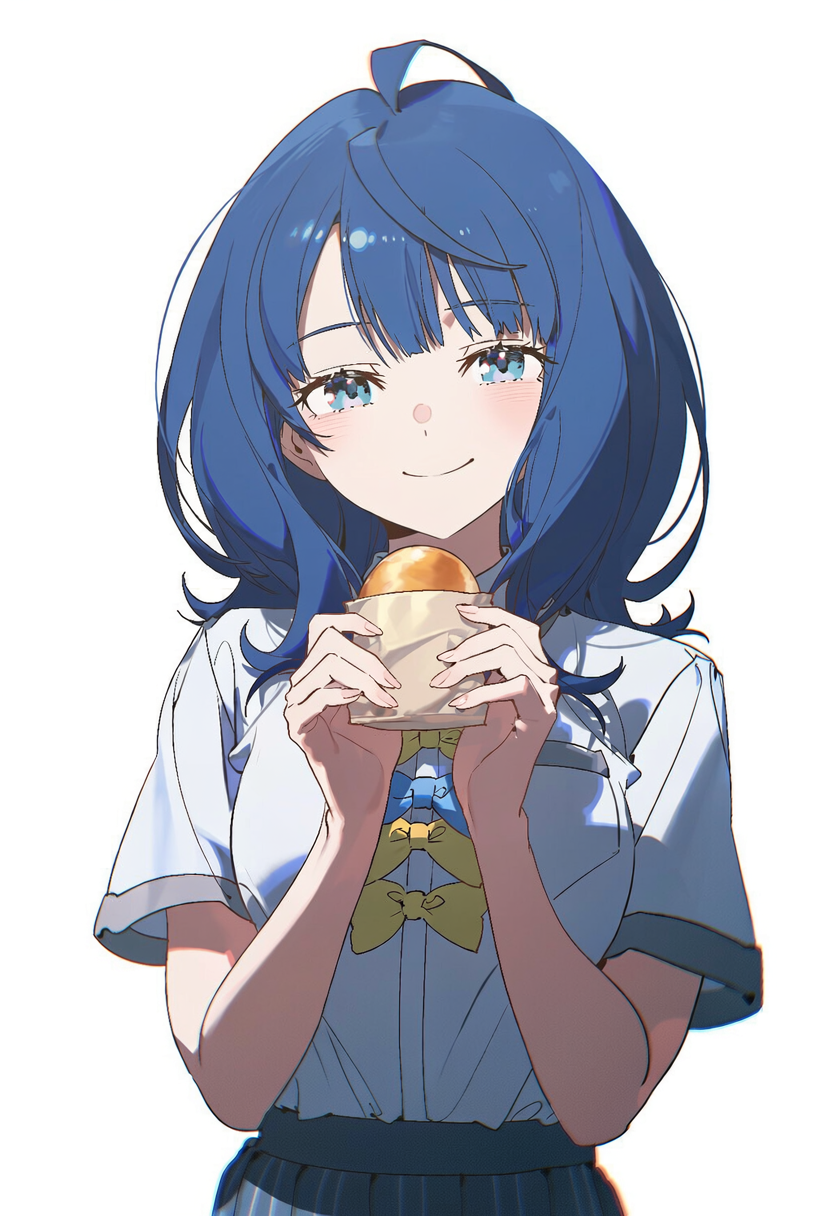
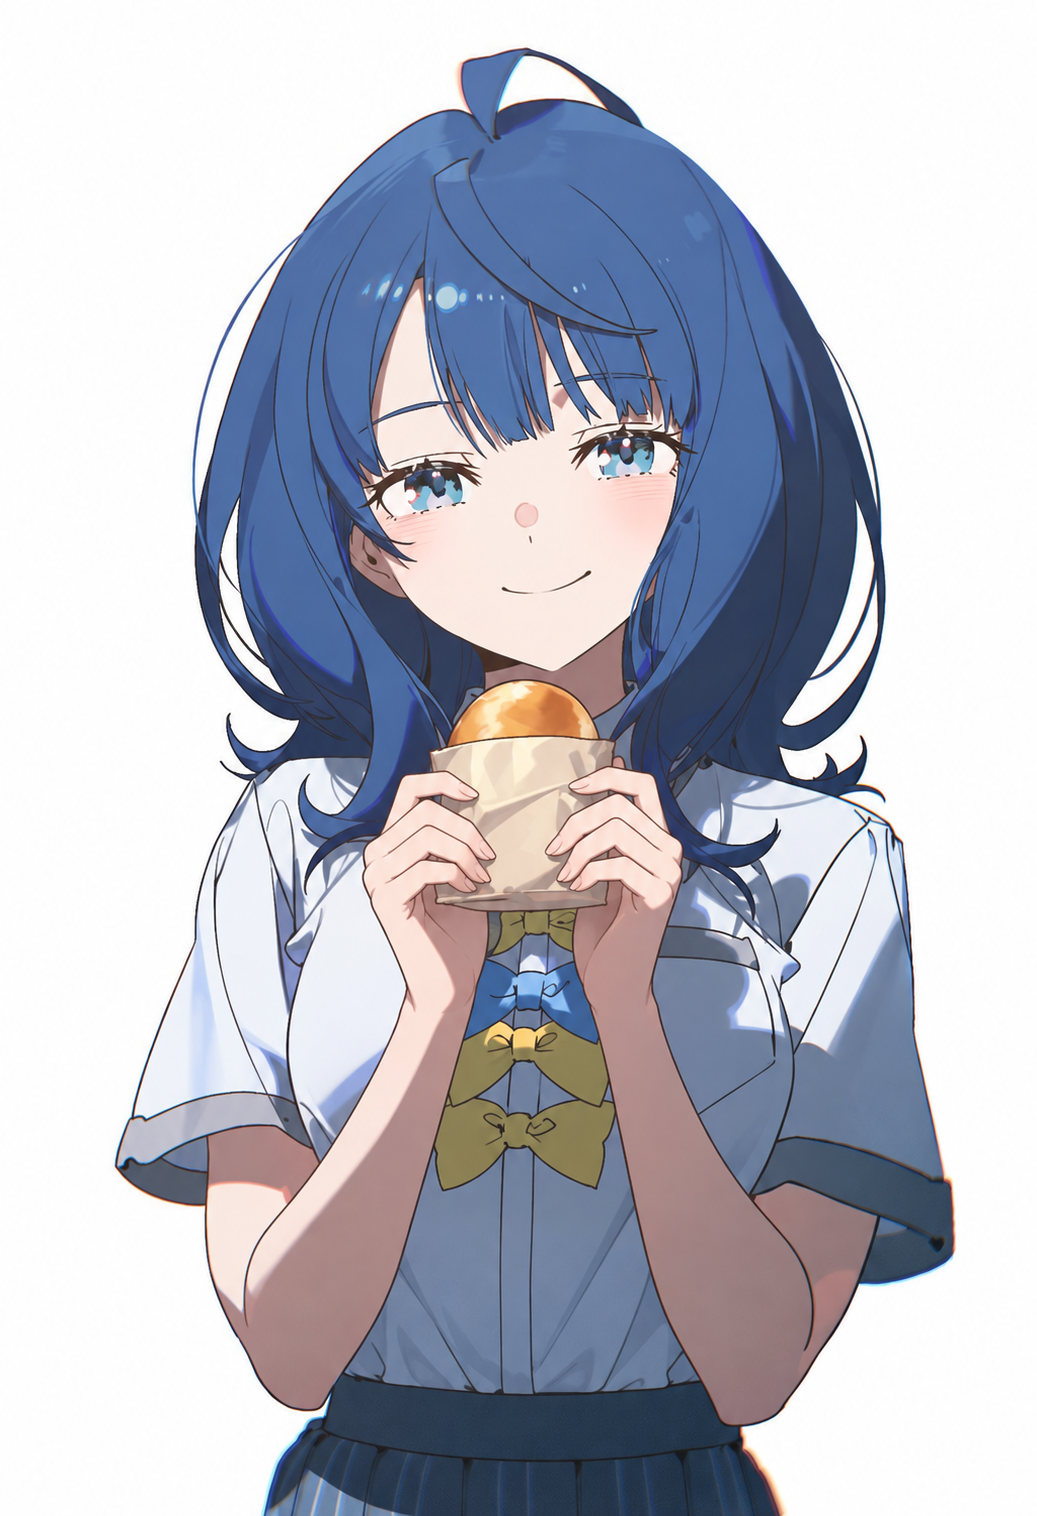
Update 八奈见杏菜 default portrait

diff --git a/images/portraits/makeine/yanami-anna/README.md b/images/portraits/makeine/yanami-anna/README.md
@@ -1,11 +1,11 @@
 # 八奈见杏菜 · 常规立绘
 
 - 当前文件：[default.png](default.png)。
-- 用户选定原图：`1girl, solo,__0.3__artist_letdie1414 __,_1.3__artist_ame (uten cancel), artist_r s-1037443759.png`。
-- 尺寸：832 × 1216；大小：1,095,760 字节。
[1 lines of base64/hex data omitted]
-- PNG 模型记录：NovelAI Diffusion V5 0ADF9AB7。
-- 可读取的生成参数：seed 1037443759；steps 28；scale 6.0；cfg_rescale 0.0；sampler k_euler_ancestral；noise_schedule karras。
+- 用户选定原图：`yanami-anna-hands-waist-edited.png`。
+- 尺寸：1037 × 1516；大小：1,480,874 字节。
[1 lines of base64/hex data omitted]
+- PNG 模型记录：未知。
+- 可读取的生成参数：seed 未知；steps 未知；scale 未知；cfg_rescale 未知；sampler 未知；noise_schedule 未知。
 - 原图字节及内嵌数据完整保留，没有裁切、缩放、抠图或重新编码。
 - 当前默认形象的运行时引用以状态栏 portraitsSB 为准；不随剧情着装自动切换。
 - 图片选定不代替真实 SillyTavern 与实际设备显示验收。
